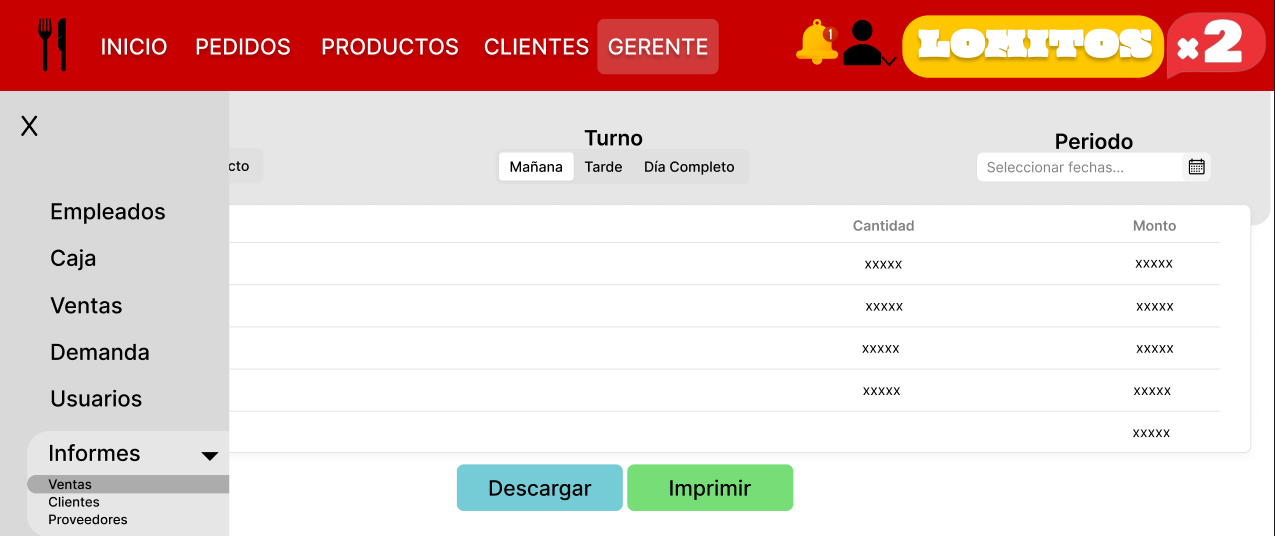
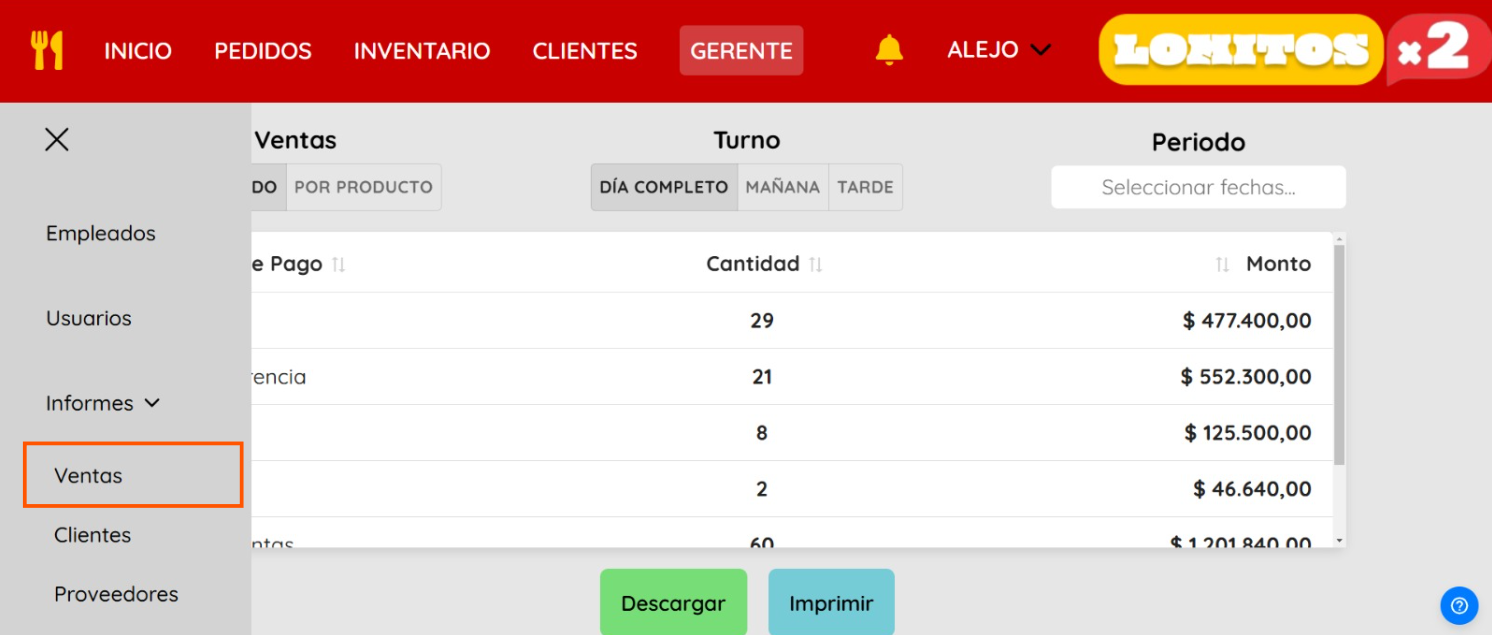
actualización

diff --git a/manualusuario.html b/manualusuario.html
@@ -414,12 +414,13 @@
             <img src="ImagenesMU/gerente92.png" style="border-radius: 8px; border: 1px solid #F4F2F7;" width="600" alt="Informe Ventas">
             <img src="ImagenesMU\gerente93.png" style="border-radius: 8px; border: 1px solid #F4F2F7;" width="600" alt="Ventas de Periodo">
             <img src="ImagenesMU\gerente94.png" style="border-radius: 8px; border: 1px solid #F4F2F7;" width="600" alt="Periodo de tiempo">
+            <img src="ImagenesMU\gerente94.1.png" style="border-radius: 8px; border: 1px solid #F4F2F7;" width="600" alt="Periodo de tiempo">
             <p>En los informes de ventas, se ofrecen dos filtros principales: “POR PERIODO” y “POR PRODUCTO”.</p>
             <p>Al seleccionar la opción “POR PERIODO”, podrás visualizar las ventas generadas en un intervalo de tiempo específico que determines. Este intervalo puede configurarse por turno, por día completo o por un período personalizado.</p>
             <p>El informe detallará la cantidad total de ventas realizadas durante el periodo seleccionado, el número de transacciones efectuadas, las ganancias obtenidas desglosadas según los diferentes métodos de pago (efectivo, transferencia, débito y crédito) y los ingresos totales generados en dicho periodo.</p>
-            <img src="ImagenesMU\gerente94.png" style="border-radius: 8px; border: 1px solid #F4F2F7;" width="600" alt="Periodo de tiempo">
-
-            <p>Al seleccionar la opción “POR PRODUCTO”, podrás visualizar un listado de los productos más vendidos, ordenados de mayor a menor según su volumen de ventas. Para esto deberás seleccionar un periodo de tiempo para el análisis, el cual puede ser por día, semana, mes o año. Si deseas buscar un producto específico, puedes utilizar la barra de búsqueda para encontrarlo rápidamente. </p>
+            <img src="ImagenesMU\gerente95.1.png" style="border-radius: 8px; border: 1px solid #F4F2F7;" width="600" alt="Periodo de tiempo">
+            <img src="ImagenesMU\gerente95.2.png" style="border-radius: 8px; border: 1px solid #F4F2F7;" width="600" alt="Periodo de tiempo">
+            <p>Al seleccionar la opción “POR PRODUCTO”, podrás visualizar un listado de los productos más vendidos, ordenados de mayor a menor según su volumen de ventas. Para esto deberás seleccionar un periodo de tiempo para el análisis, el cual puede ser por día, semana, mes o año. Si deseas buscar un producto específico, puedes utilizar el ícono de la lupa para encontrarlo rápidamente. </p>
             <p>El informe incluirá los ingresos generados por cada producto, el porcentaje de participación en las ventas totales y la cantidad de unidades vendidas de cada producto.</p>
         </div>
 
@@ -435,6 +436,7 @@
             <p>En los informes de clientes, podrás acceder a un listado detallado de los clientes que te han realizado compras. Para cada cliente, se mostrará información personal, como nombre, teléfono, dirección, el historial de compra y el total de compras realizadas. Además, tendrás la posibilidad de filtrar a los clientes por mes, año o un periodo de tiempo específico. También podrás buscar directamente a un cliente por su nombre utilizando la barra de búsqueda.</p>
             <img src="ImagenesMU\gerente98.png" style="border-radius: 8px; border: 1px solid #F4F2F7;" width="35" alt="Historial de compra">Historial de ventas.
             <img src="ImagenesMU\gerente99.png" style="border-radius: 8px; border: 1px solid #F4F2F7;" width="600" alt="Cliente">
+            <img src="ImagenesMU\gerente99.1.png" style="border-radius: 8px; border: 1px solid #F4F2F7;" width="600" alt="Cliente">
             <p>Dentro del historial de compras, podrás visualizar información detallada de los pedidos realizados por cada cliente, incluyendo el número total de pedidos realizados, las fechas en las que se efectuaron, el detalle de cada pedido, el método de pago utilizado, el monto total de cada pedido.</p>
             <p>En este apartado, tendrás la opción de descargar el informe o imprimirlo para tu conveniencia. Además, podrás buscar un pedido específico utilizando la barra de búsqueda. </p>
 
@@ -446,13 +448,13 @@
             <h3>15.Informes de Proveedores</h3>
             <p>En el apartado “GERENTE” y dentro del menú hamburguesa encontramos los “INFORMES”. Tenemos la posibilidad de elegir entre informes de ventas, clientes y proveedores. </p>
             <img src="ImagenesMU/gerente100.png" style="border-radius: 8px; border: 1px solid #F4F2F7;" width="600" alt="Proveedores">
+            <img src="ImagenesMU/gerente100.1.png" style="border-radius: 8px; border: 1px solid #F4F2F7;" width="600" alt="Proveedores">
             <p>En los informes de ventas, se ofrecen dos filtros principales: “GENERAL” y “PROVEEDOR”.</p>
             <p>Al seleccionar la opción “PROVEEDOR”, podrás visualizar una lista de proveedores con sus nombres, categoría y un historial de compra. Aquí podrá buscar por nombre a un proveedor, descargar el informe o imprimirlo.</p>
 
             <img src="ImagenesMU\gerente101.png" style="border-radius: 8px; border: 1px solid #F4F2F7;" width="600" alt="Informe Cliente">
-            <p>En el historial de compra, podrás visualizar la fecha del pedido, la categoría, el producto pedido, la cantidad, el monto. Aquí podrá filtrar las ventas por fecha.</p>
             <img src="ImagenesMU\gerente102.png" style="border-radius: 8px; border: 1px solid #F4F2F7;" width="600" alt="Proveedor general">
-            <img src="ImagenesMU\gerente103.png" style="border-radius: 8px; border: 1px solid #F4F2F7;" width="600" alt="Perioso de tiempo">
+
             <p>Al seleccionar la opción “GENERAL”, podrás visualizar una lista con las compras a proveedores más recientes, el nombre del proveedor, la fecha, el producto comprado, la cantidad, el monto que abonamos y el total de la compra. Aquí podrá filtrar la búsqueda por fecha.</p>
 
 
